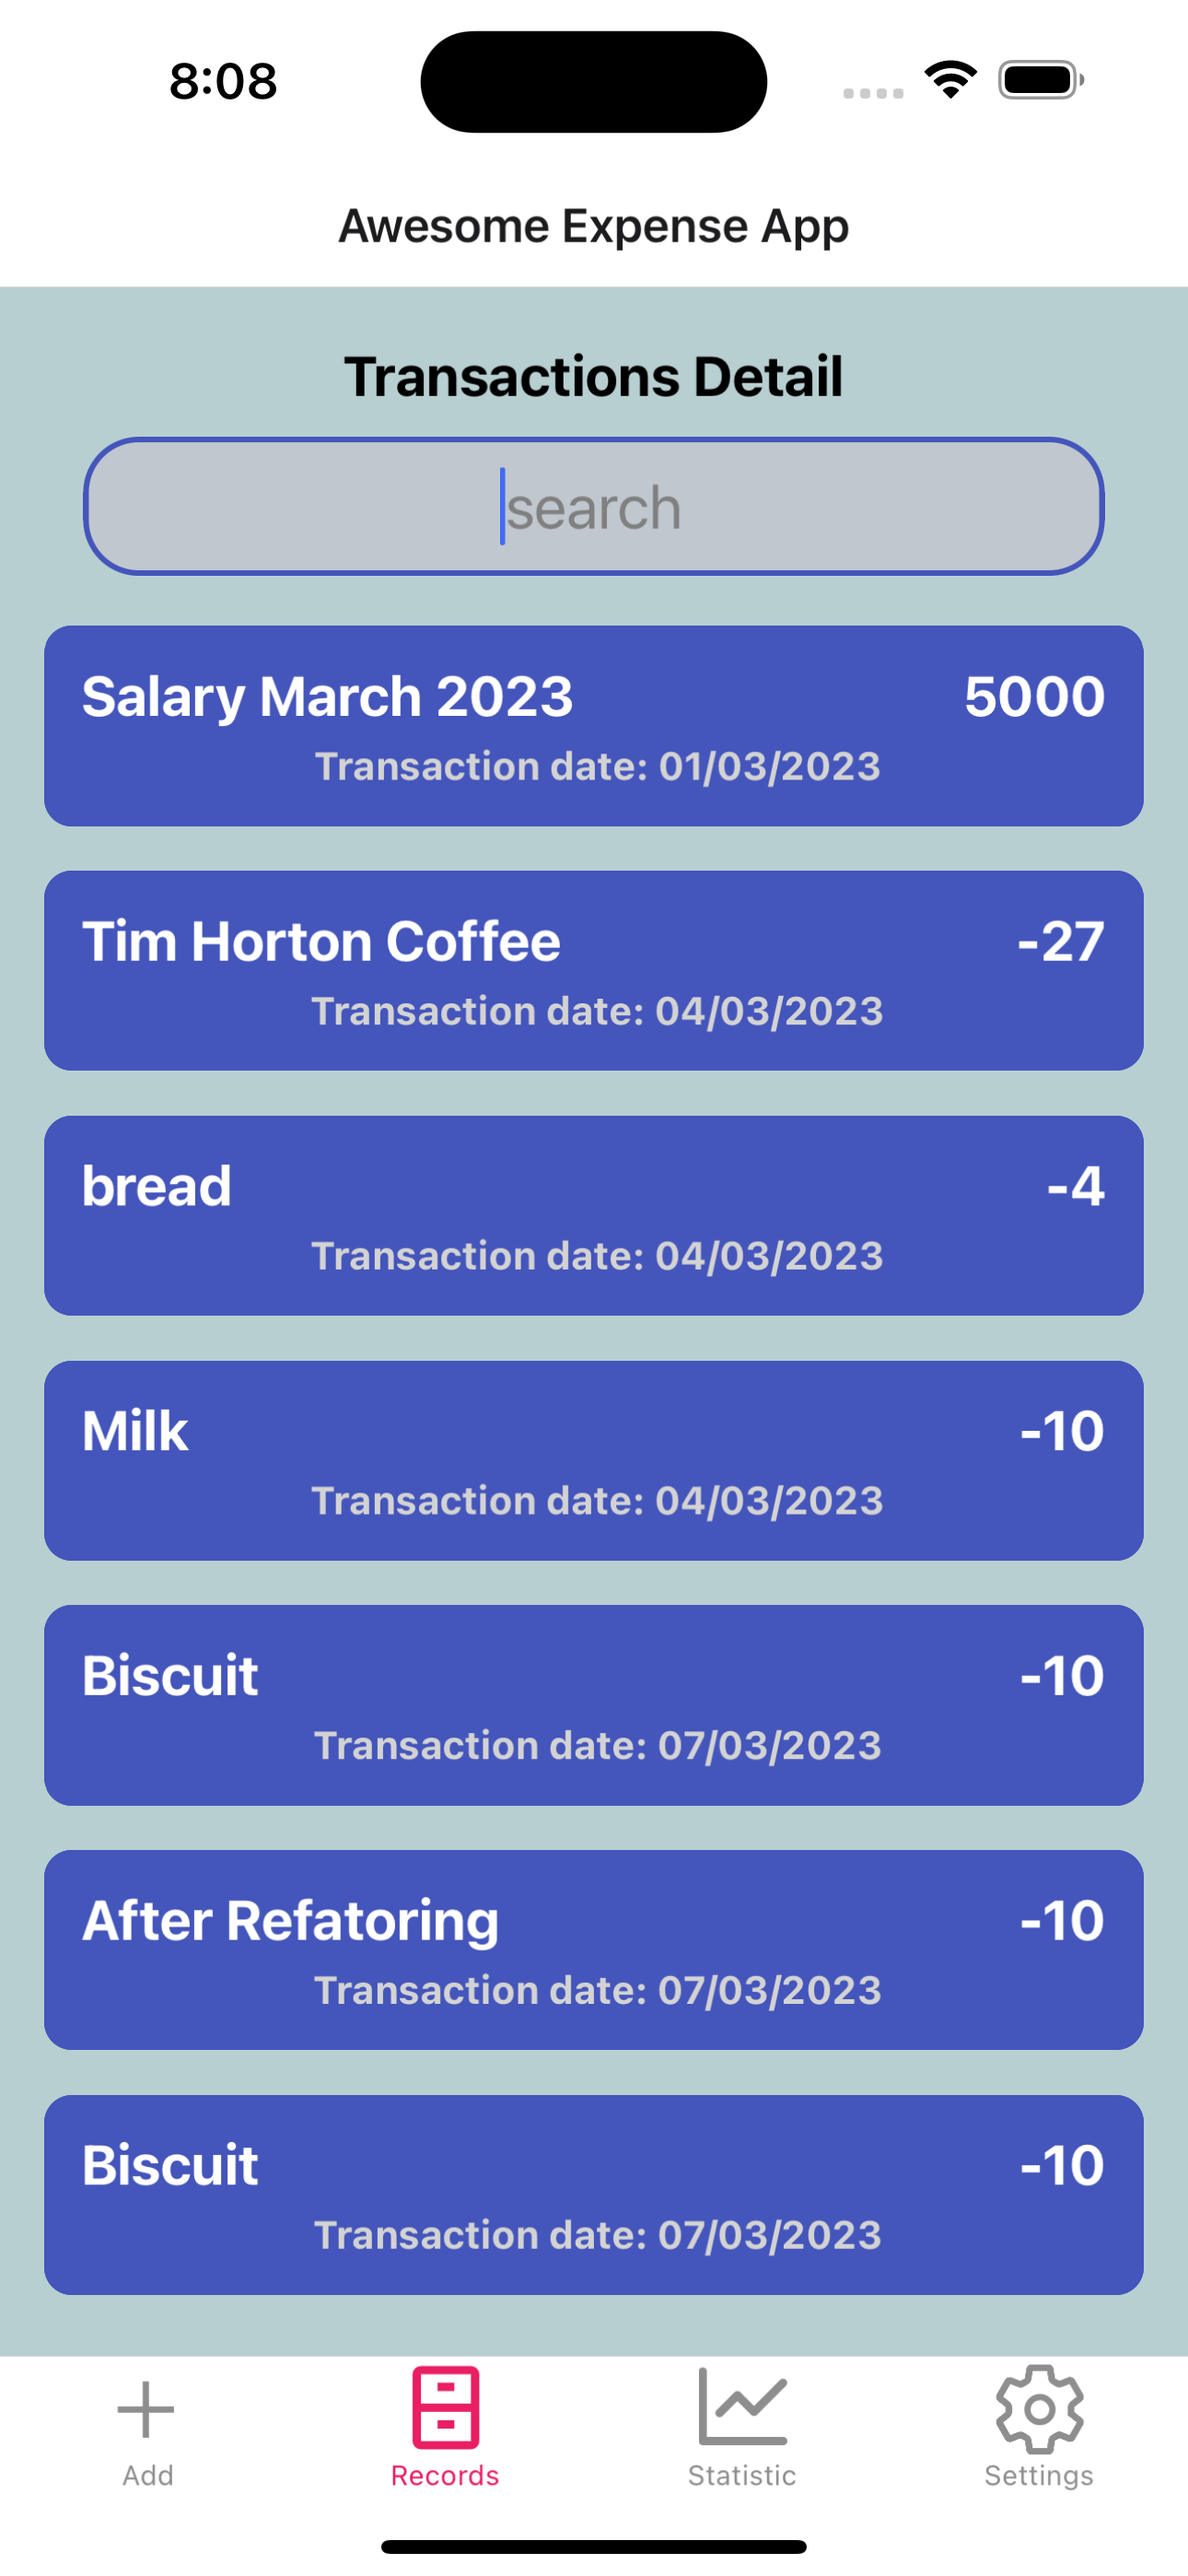
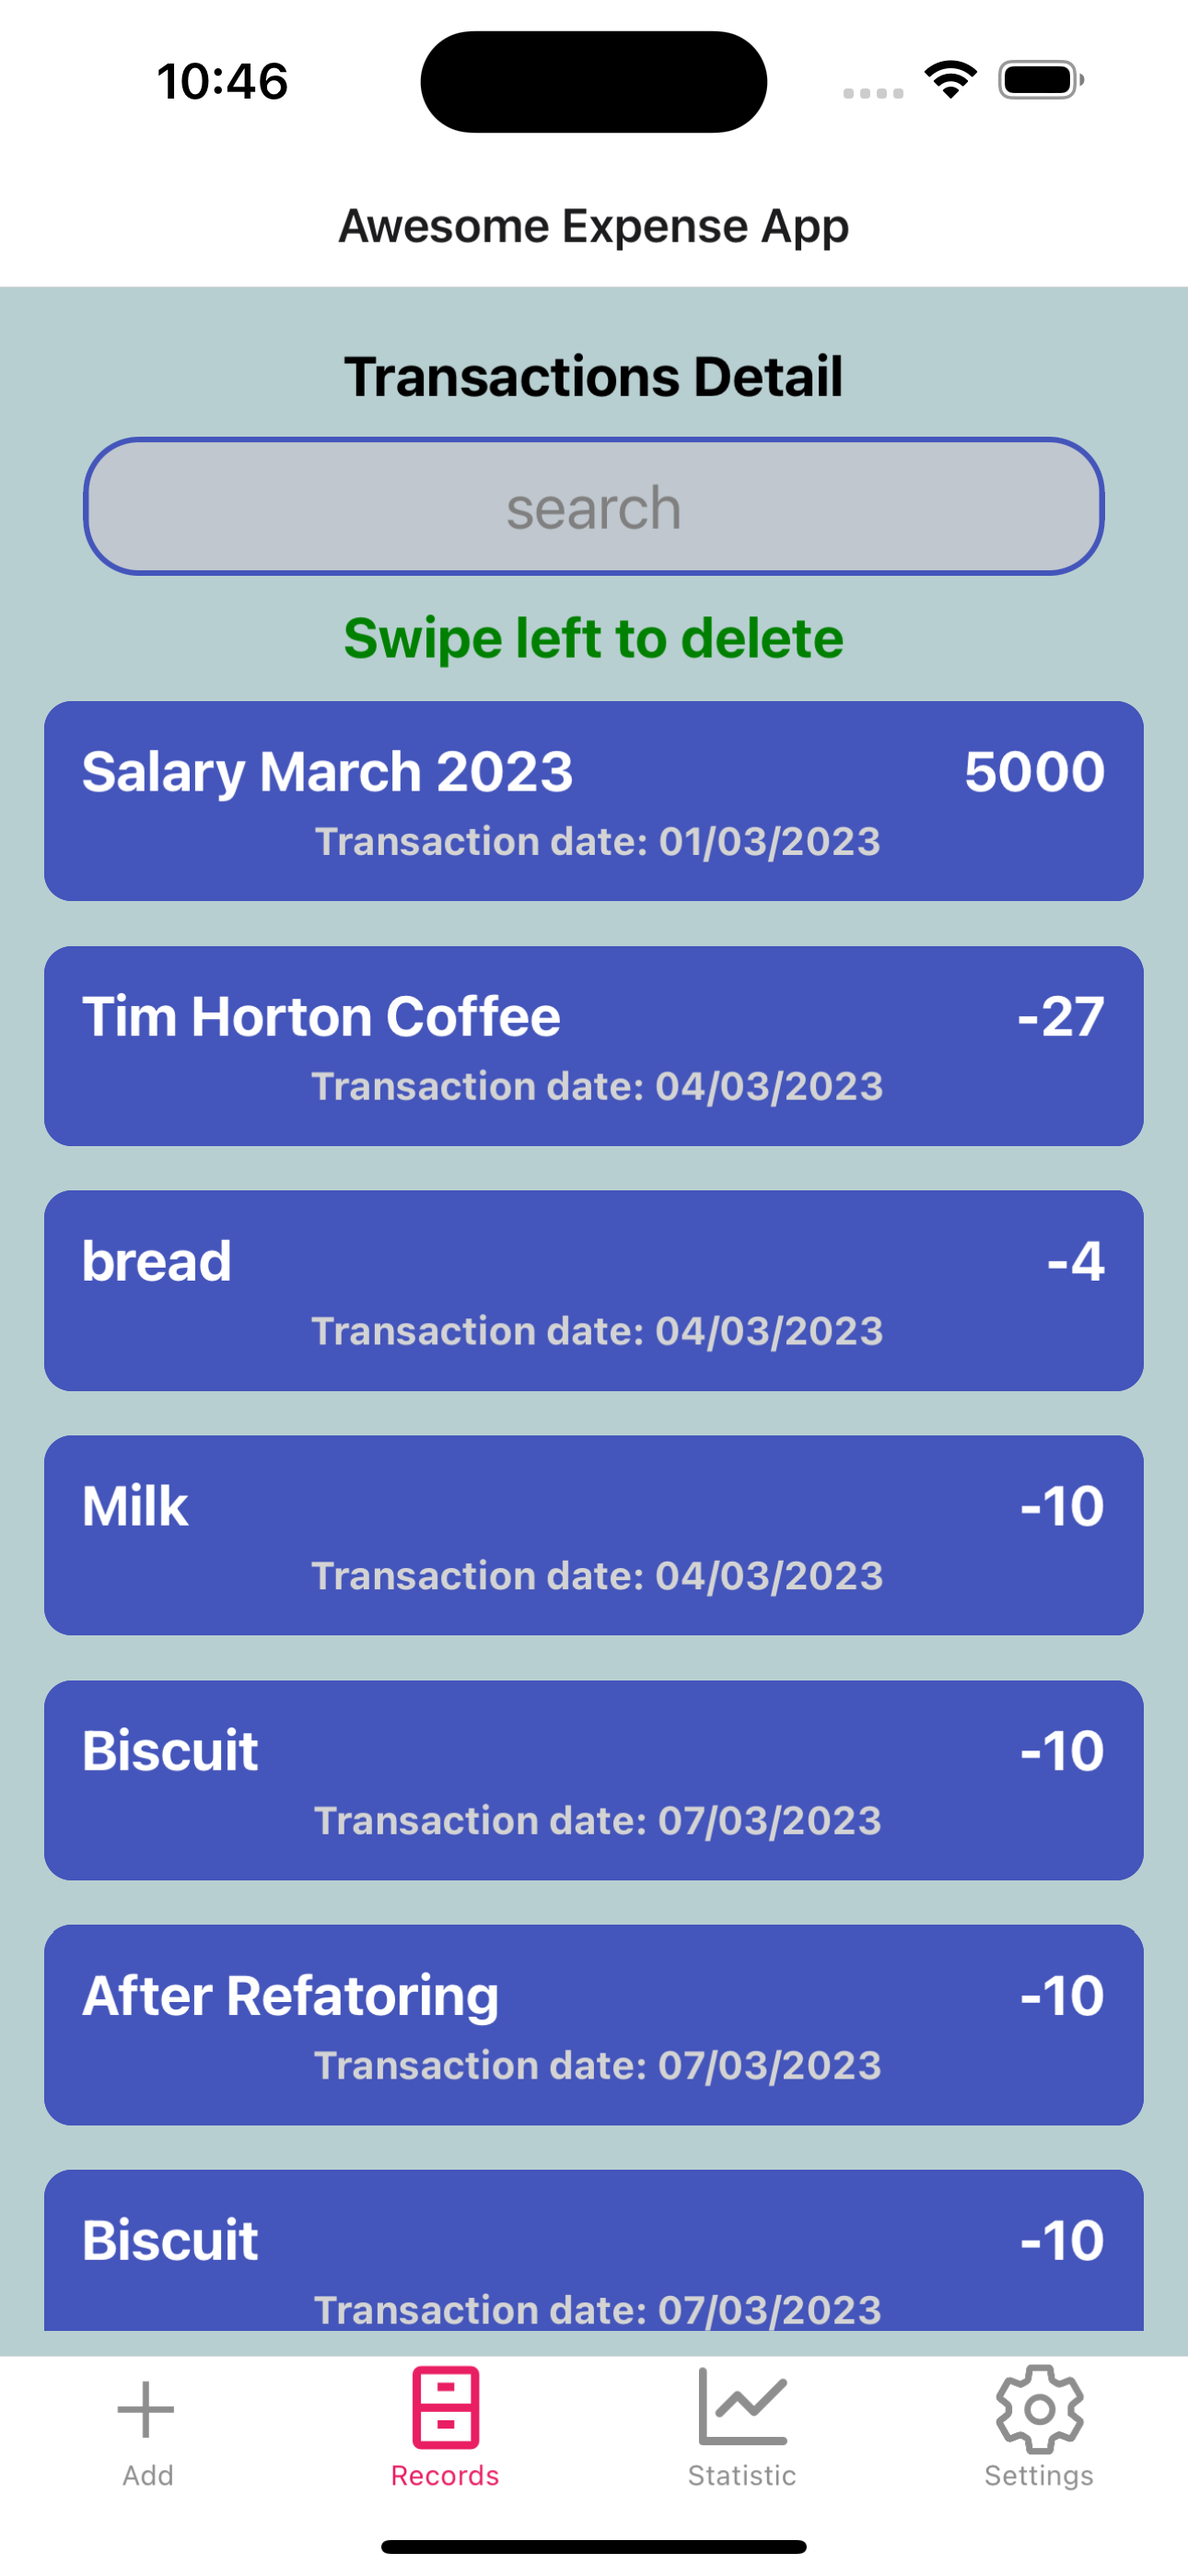
feat: :sparkles: Swipe left is added to records tab screen

Changed region(s): [[0.031, 0.1867, 0.9612, 0.9024], [0.155, 0.0, 0.2481, 0.0622]]

diff --git a/src/screens/RegistrationScreen.js b/src/screens/RegistrationScreen.js
@@ -92,14 +92,14 @@ export default function RegistrationScreen({navigation}) {
           onChangeText={(text) => setEmail(text)}
           value={email}/>
 
-        <TextInput secureTextEntry={false} style={styles.inputBox}
+        <TextInput secureTextEntry={true} style={styles.inputBox}
           placeholder='Password'
           placeholderTextColor={'grey'}
           autoCapitalize="none"
           onChangeText={(text) => setPassword(text)}
           value={password}/>
 
-        <TextInput secureTextEntry={false} style={styles.inputBox}
+        <TextInput secureTextEntry={true} style={styles.inputBox}
           placeholder='Confirm Password'
           placeholderTextColor={'grey'}
           autoCapitalize="none"

diff --git a/src/screens/RecordsTabScreen.js b/src/screens/RecordsTabScreen.js
@@ -58,7 +58,7 @@ export default ({navigation}) => {
   }, [query]);
 
   // to get the height of the bottom navigation bar
-  const tabBarHeight = useBottomTabBarHeight() + 90;
+  const tabBarHeight = useBottomTabBarHeight() + 120;
 
   // Function to create the transaction list based on data fetched from backend
   const renderItem = ({item})=>(
@@ -95,7 +95,7 @@ export default ({navigation}) => {
           onChangeText={(text) => setQuery(text)}
           value={query}
         />
-
+        <Text style={[styles.text,{marginTop:0, marginBottom:3, color:'green',}]}>Swipe left to delete</Text>
         <FlatList
           data={transactionData}
           renderItem={renderItem}
